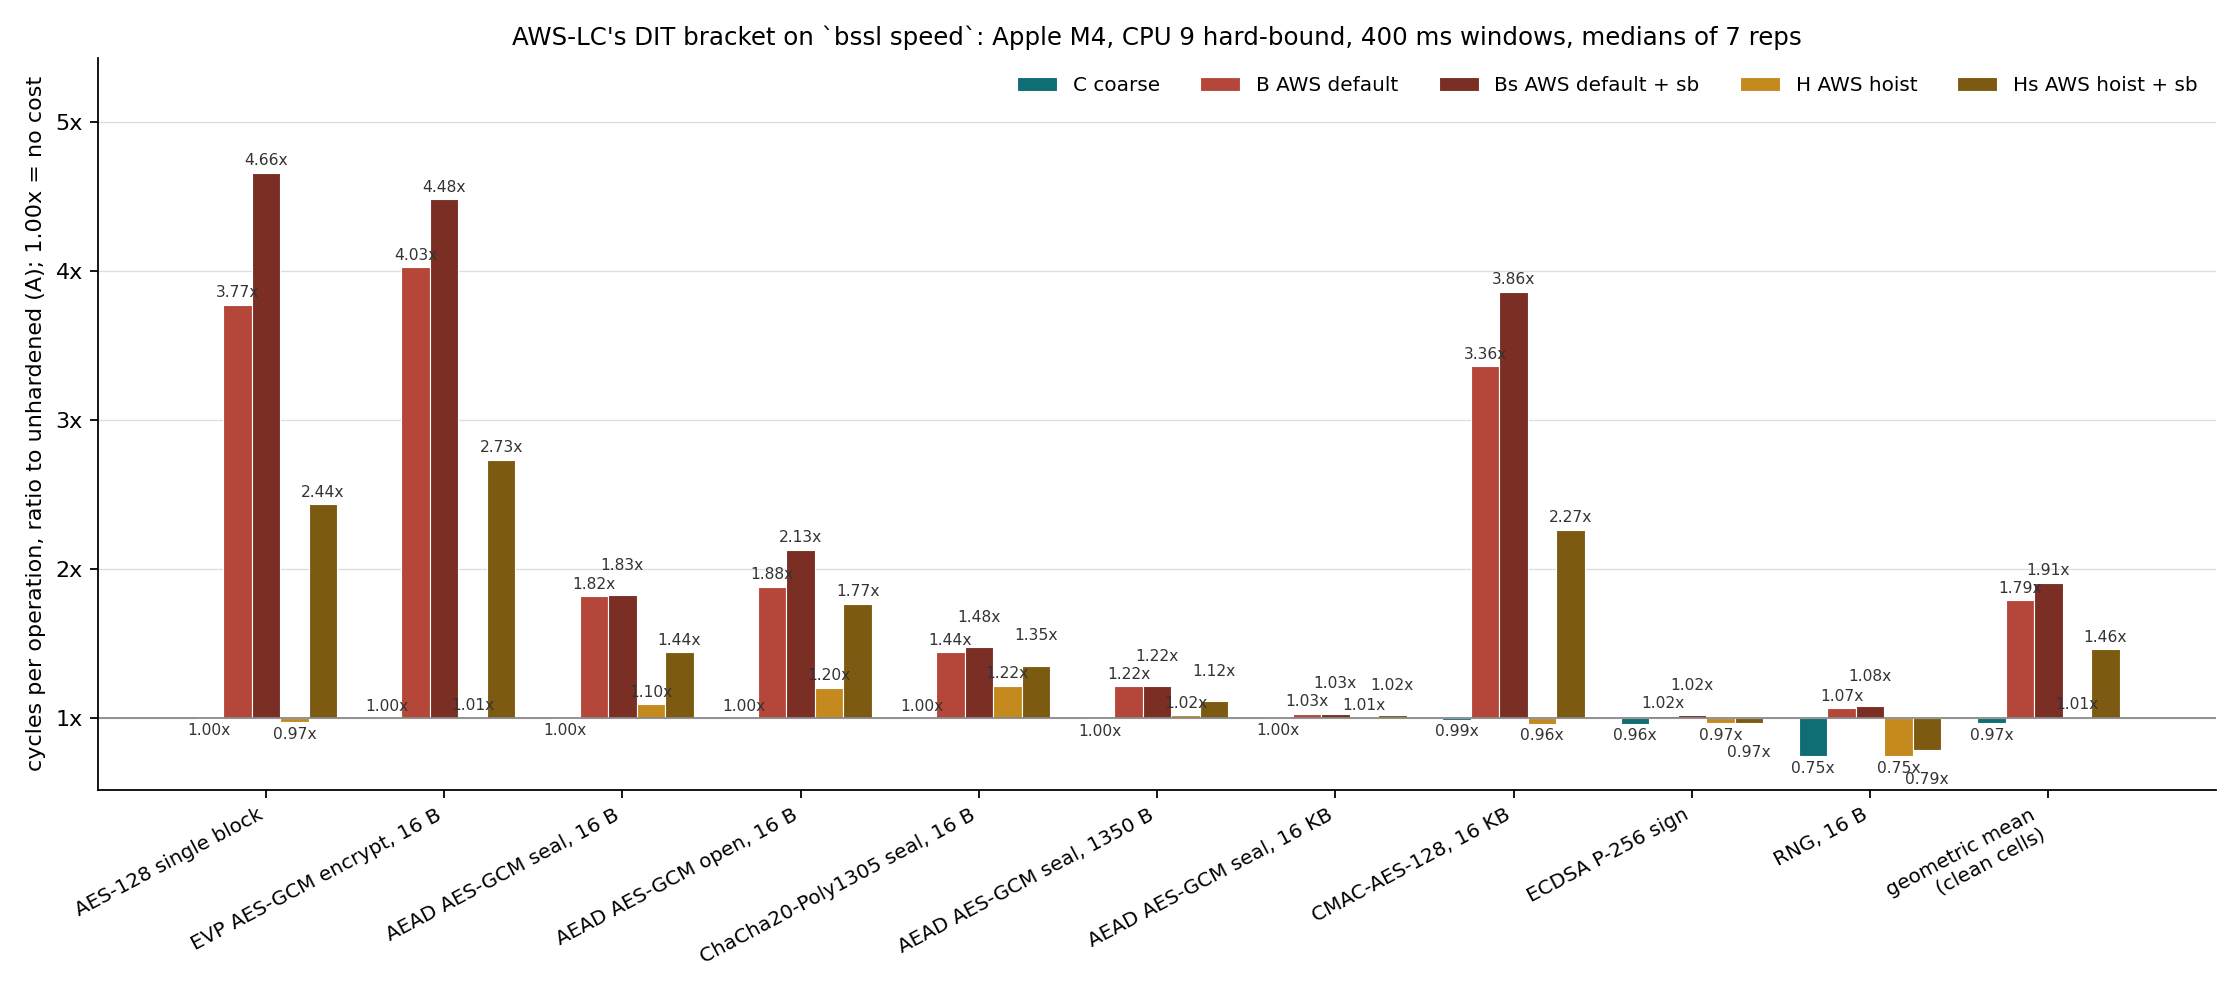
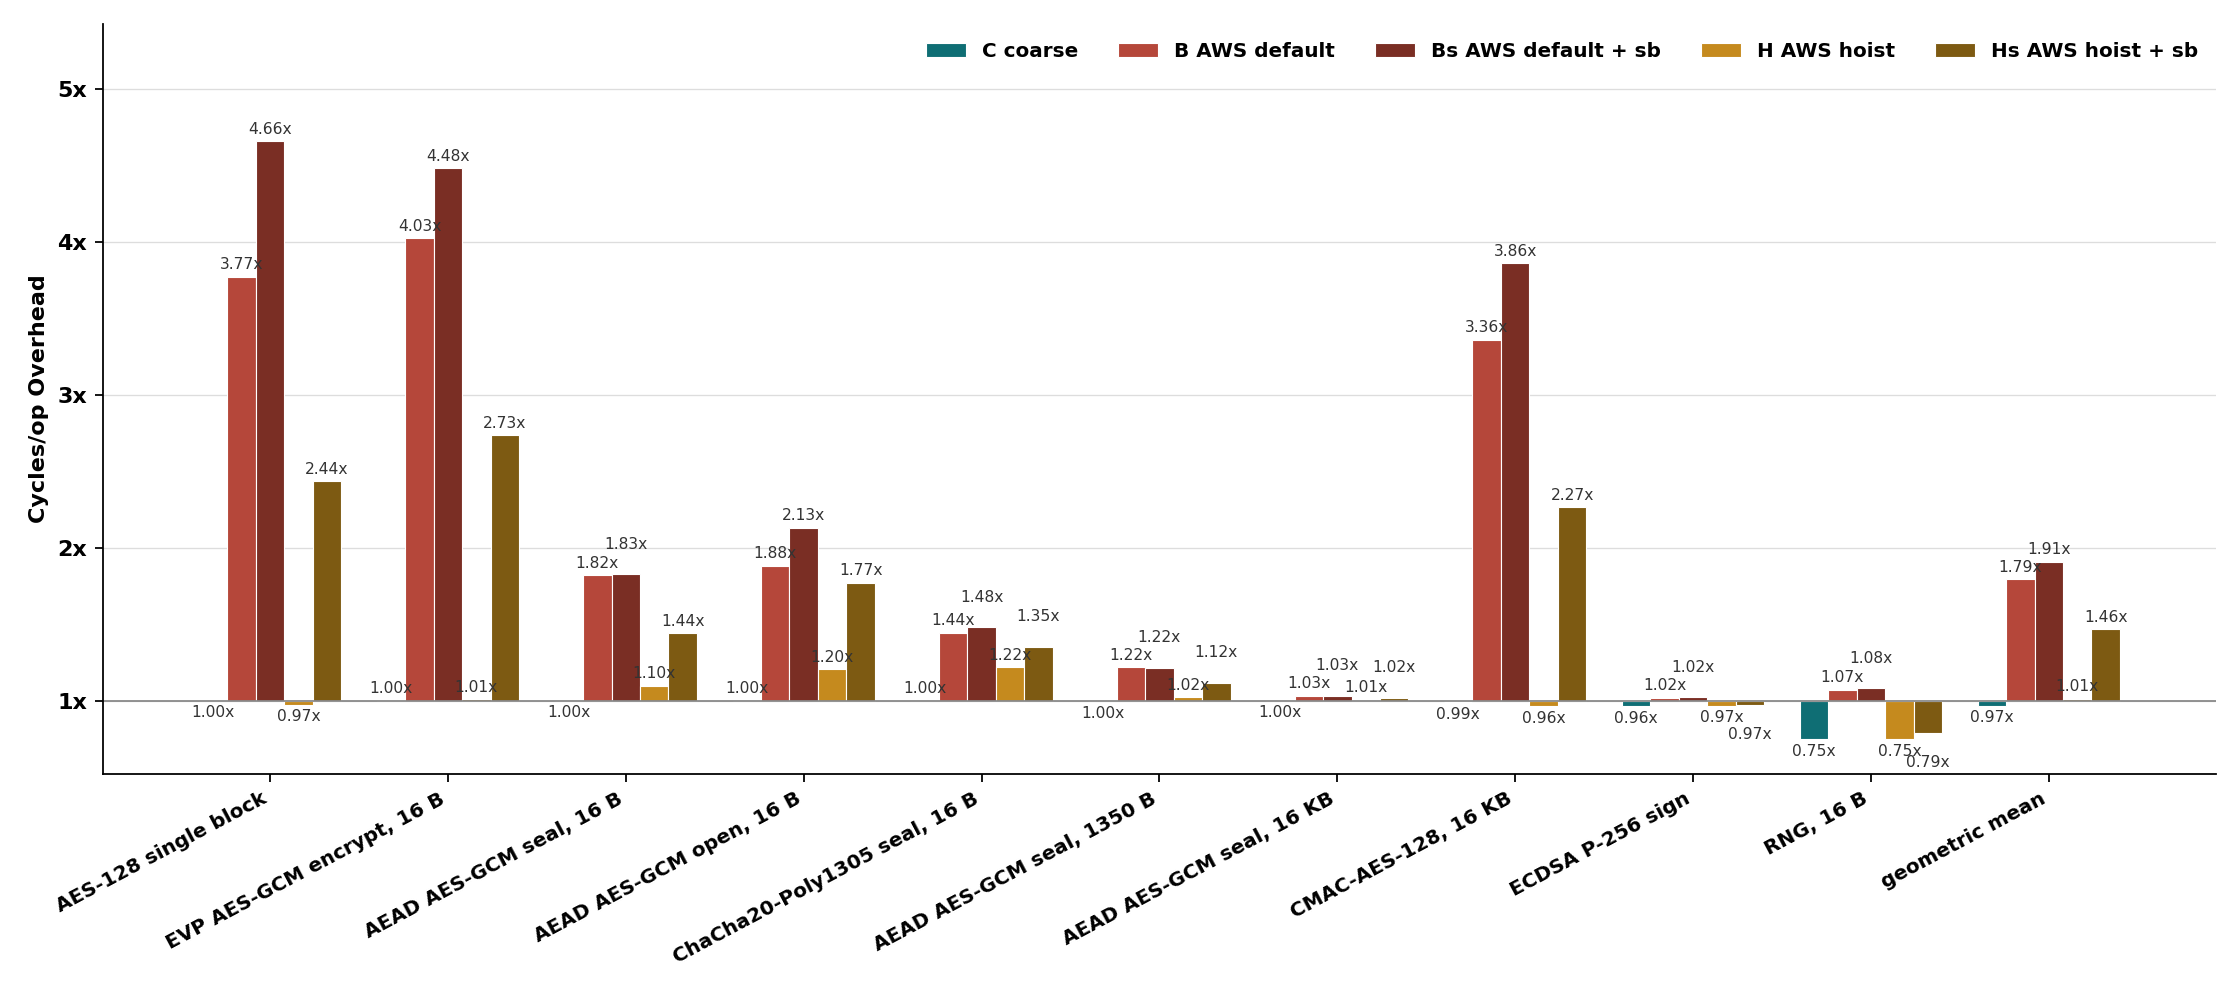
exp 14 paper chart: no title, y axis 'Cycles/op Overhead', bold axes and legend, geomean over every cell
plot_awslc.py paper_rows.png: title dropped (the figure is captioned where it is placed), y label
'Cycles/op Overhead', bold y label, tick labels, row names and legend; the geometric-mean group
counts every cell and is labelled 'geometric mean'. The page's chart uses the same geomean.

diff --git a/paper_experiments/14-awslc-shipping-bracket/figures/shipping-bracket.html b/paper_experiments/14-awslc-shipping-bracket/figures/shipping-bracket.html
@@ -231,7 +231,7 @@ const geomean = (rows, arm, all=false) => { const l = rows.filter(r => r.cycles[
     const arms = ['C','B','Bs','H','Hs'];
     document.getElementById('sw2').innerHTML = arms.map(a => `<span style="--sw:${COL(a)}">${NAME[a]}</span>`).join('');
     const groups = PR.map(([label,k]) => ({label, r: DATA.rows[k]})).filter(g => g.r);
-    groups.push({label: 'geometric mean', r: {pct: Object.fromEntries(arms.map(a => [a, geomean(used, a)])), suspect: []}});
+    groups.push({label: 'geometric mean', r: {pct: Object.fromEntries(arms.map(a => [a, geomean(used, a, true)])), suspect: []}});   // every cell counts
     // ratio to A: 1.00x is no cost; the axis is set by the clean cells and starts a little under the lowest bar
     const ratio = p => p == null || Number.isNaN(p) ? null : p / 100 + 1;
     const rlab = v => Math.abs(v) < 10 ? `${v.toFixed(2)}x` : Math.abs(v) < 1e3 ? `${v.toFixed(1)}x` : `${v.toPrecision(2)}x`;

diff --git a/utils/dit_host_screening/awslc/plot_awslc.py b/utils/dit_host_screening/awslc/plot_awslc.py
@@ -4,8 +4,8 @@
   plot_awslc.py summary.json [--out DIR]
 
 Writes into DIR (default: next to the JSON):
-  paper_rows.png    the paper's ten rows, grouped bars for C, B, Bs, H, Hs as the ratio to A (1.00x = no cost), plus
-                    the geometric mean group (clean cells); a suspect cell (median known wrong) is
+  paper_rows.png    the paper's ten rows, grouped bars for C, B, Bs, H, Hs as the ratio to A (1.00x = no cost), no title, plus
+                    the geometric mean group (every cell); a suspect cell (median known wrong) is
                     hatched, capped at the axis top and labelled with its true value
   all_rows.png      every row, one panel per arm, horizontal bars in table order, symmetric-log
                     axis so a 16-byte AES block at +366% and a hash at -1% share a scale; suspect
@@ -45,7 +45,7 @@ def geomean(rows, arm, include_suspect):
 def paper_chart(an, out):
     rows = [(lab, an['rows'].get(k)) for lab, k in PAPER]
     rows = [(lab, r) for lab, r in rows if r]
-    labels = [lab for lab, _ in rows] + ['geometric mean\n(clean cells)']
+    labels = [lab for lab, _ in rows] + ['geometric mean']
     n, w = len(labels), 0.16
     fig, ax = plt.subplots(figsize=(14, 6.2))
     # bars are the ratio of cycles per op to the unhardened arm, drawn from 1.00x (no cost). The axis is set by
@@ -57,7 +57,7 @@ def paper_chart(an, out):
     # a label is lifted one line when the neighbouring bar's label would overprint it (values within 4% of the axis)
     near = 0.04 * (top - lo)
     for i, arm in enumerate(ARMS):
-        vals = [ratio(r['pct'].get(arm, float('nan'))) for _, r in rows] + [ratio(geomean([r for _, r in rows], arm, False))]
+        vals = [ratio(r['pct'].get(arm, float('nan'))) for _, r in rows] + [ratio(geomean([r for _, r in rows], arm, True))]   # every cell counts
         sus = [arm in r.get('suspect', []) for _, r in rows] + [False]
         xs = [j + (i - 2) * w for j in range(n)]
         drawn = [min(v, top) if v == v else v for v in vals]
@@ -72,11 +72,11 @@ def paper_chart(an, out):
                             fontsize=7, xytext=(0, 2 + lift if v >= 1 else -2 - lift), textcoords='offset points', color='#B5473A' if s else '#333')
     ax.set_ylim(lo - (top - lo) * 0.05, top * 1.04)
     ax.axhline(1, color='#888', linewidth=0.8)
-    ax.set_xticks(range(n)); ax.set_xticklabels(labels, rotation=28, ha='right', fontsize=9)
-    ax.yaxis.set_major_formatter(ratfmt); ax.set_ylabel('cycles per operation, ratio to unhardened (A); 1.00x = no cost')
-    v = an['validity']
-    ax.set_title(f"AWS-LC's DIT bracket on `bssl speed`: Apple M4, CPU {v.get('pin_cpu')} hard-bound, {v.get('timeout_ms')} ms windows, medians of {v.get('reps')} reps", fontsize=11)
-    ax.legend(ncol=5, fontsize=9, frameon=False, loc='upper right')
+    ax.set_xticks(range(n)); ax.set_xticklabels(labels, rotation=28, ha='right', fontsize=9, fontweight='bold')
+    ax.yaxis.set_major_formatter(ratfmt); ax.set_ylabel('Cycles/op Overhead', fontweight='bold')
+    for t in ax.get_yticklabels(): t.set_fontweight('bold')
+    # no title: the figure is captioned where it is placed
+    ax.legend(ncol=5, fontsize=9, frameon=False, loc='upper right', prop={'weight': 'bold', 'size': 9})
     ax.grid(axis='y', color='#ddd', linewidth=0.6); ax.set_axisbelow(True)
     for s in ('top', 'right'): ax.spines[s].set_visible(False)
     fig.tight_layout(); fig.savefig(os.path.join(out, 'paper_rows.png'), dpi=160); plt.close(fig)

diff --git a/utils/dit_host_screening/awslc/analyze_awslc.py b/utils/dit_host_screening/awslc/analyze_awslc.py
@@ -513,7 +513,7 @@ const geomean = (rows, arm, all=false) => { const l = rows.filter(r => r.cycles[
     const arms = ['C','B','Bs','H','Hs'];
     document.getElementById('sw2').innerHTML = arms.map(a => `<span style="--sw:${COL(a)}">${NAME[a]}</span>`).join('');
     const groups = PR.map(([label,k]) => ({label, r: DATA.rows[k]})).filter(g => g.r);
-    groups.push({label: 'geometric mean', r: {pct: Object.fromEntries(arms.map(a => [a, geomean(used, a)])), suspect: []}});
+    groups.push({label: 'geometric mean', r: {pct: Object.fromEntries(arms.map(a => [a, geomean(used, a, true)])), suspect: []}});   // every cell counts
     // ratio to A: 1.00x is no cost; the axis is set by the clean cells and starts a little under the lowest bar
     const ratio = p => p == null || Number.isNaN(p) ? null : p / 100 + 1;
     const rlab = v => Math.abs(v) < 10 ? `${v.toFixed(2)}x` : Math.abs(v) < 1e3 ? `${v.toFixed(1)}x` : `${v.toPrecision(2)}x`;
